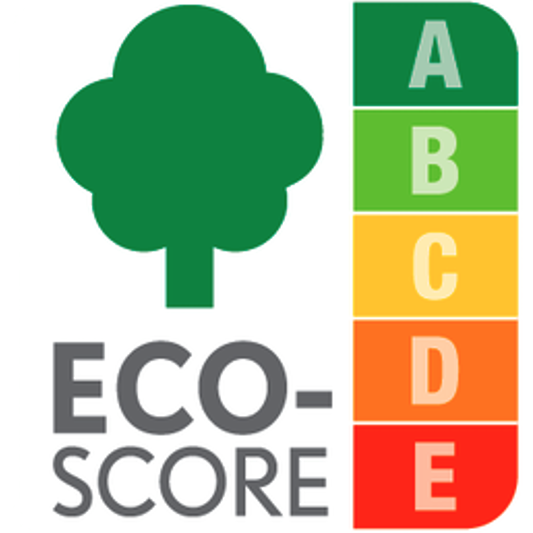
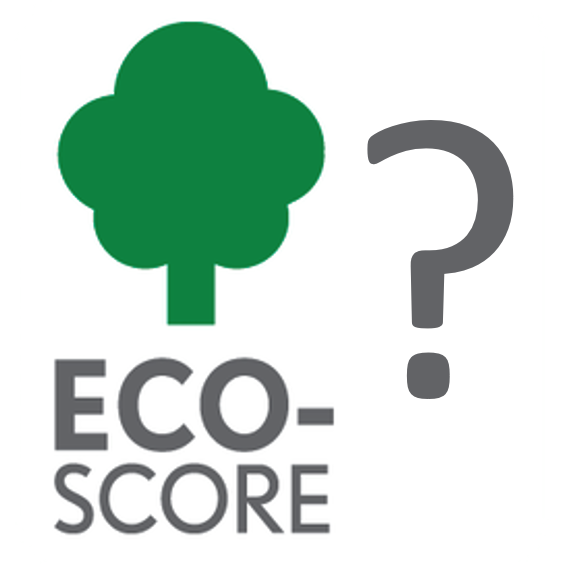
added co2 label

diff --git a/imports/ui/MealScreen.jsx b/imports/ui/MealScreen.jsx
@@ -8,7 +8,8 @@ import React, { useState } from "react";
 import { OrderButton } from "./components/OrderButton";
 import {
   calculateNutrientforRecipe,
-  getNutriscoreImage
+  getNutriscoreImage,
+  getEcoImage,
 } from "/imports/api/apiPersfo";
 import { UserPreferences } from '/imports/db/userPreferences/UserPreferences';
 import { capitalizeFirstLetter } from "/imports/api/auxMethods";
@@ -64,6 +65,9 @@ export const MealScreen = ({ recipe }) => {
     },
     nutriscore: {
       height: "32px",
+    },
+    ecoscore: {
+      height: "64px",
     },
     tabFont: {
       fontSize: "10px",
@@ -473,7 +477,10 @@ export const MealScreen = ({ recipe }) => {
           </p>
           <h1 className={classes.subtitle}>{i18n.__("sustainability.co2")}</h1>
           <p style={{ color: "#afafaf", fontSize: "11px", padding: "8px" }}>
-            {" "}{i18n.__("general.no_data")}{" "}
+            <img
+                className={classes.ecoscore}
+                src={getEcoImage(recipe)}
+              />
           </p>
         </div>
       </>

diff --git a/imports/api/apiPersfo.js b/imports/api/apiPersfo.js
@@ -253,6 +253,22 @@ export function getNutriscoreImage(recipe) {
   return "/images/nutri" + getNutriscore(recipe) + ".jpg";
 }
 
+export function getEcoScore(recipe) {
+  if (recipe && recipe.custom_fields) {
+    for (let i = 0; i < recipe.custom_fields.length; i++) {
+      let custom = recipe.custom_fields[i];
+      if (custom.name == "CO2Rating") {
+        return custom.value;
+      }
+    }
+  }
+  return null;
+}
+
+export function getEcoImage(recipe) {
+  return "/images/eco" + getEcoScore(recipe) + ".png";
+}
+
 export function getNbDisliked(recipe, dislikedIngredients) {
   let counter = 0;
   if (recipe && recipe.cleanedIngredients) {
